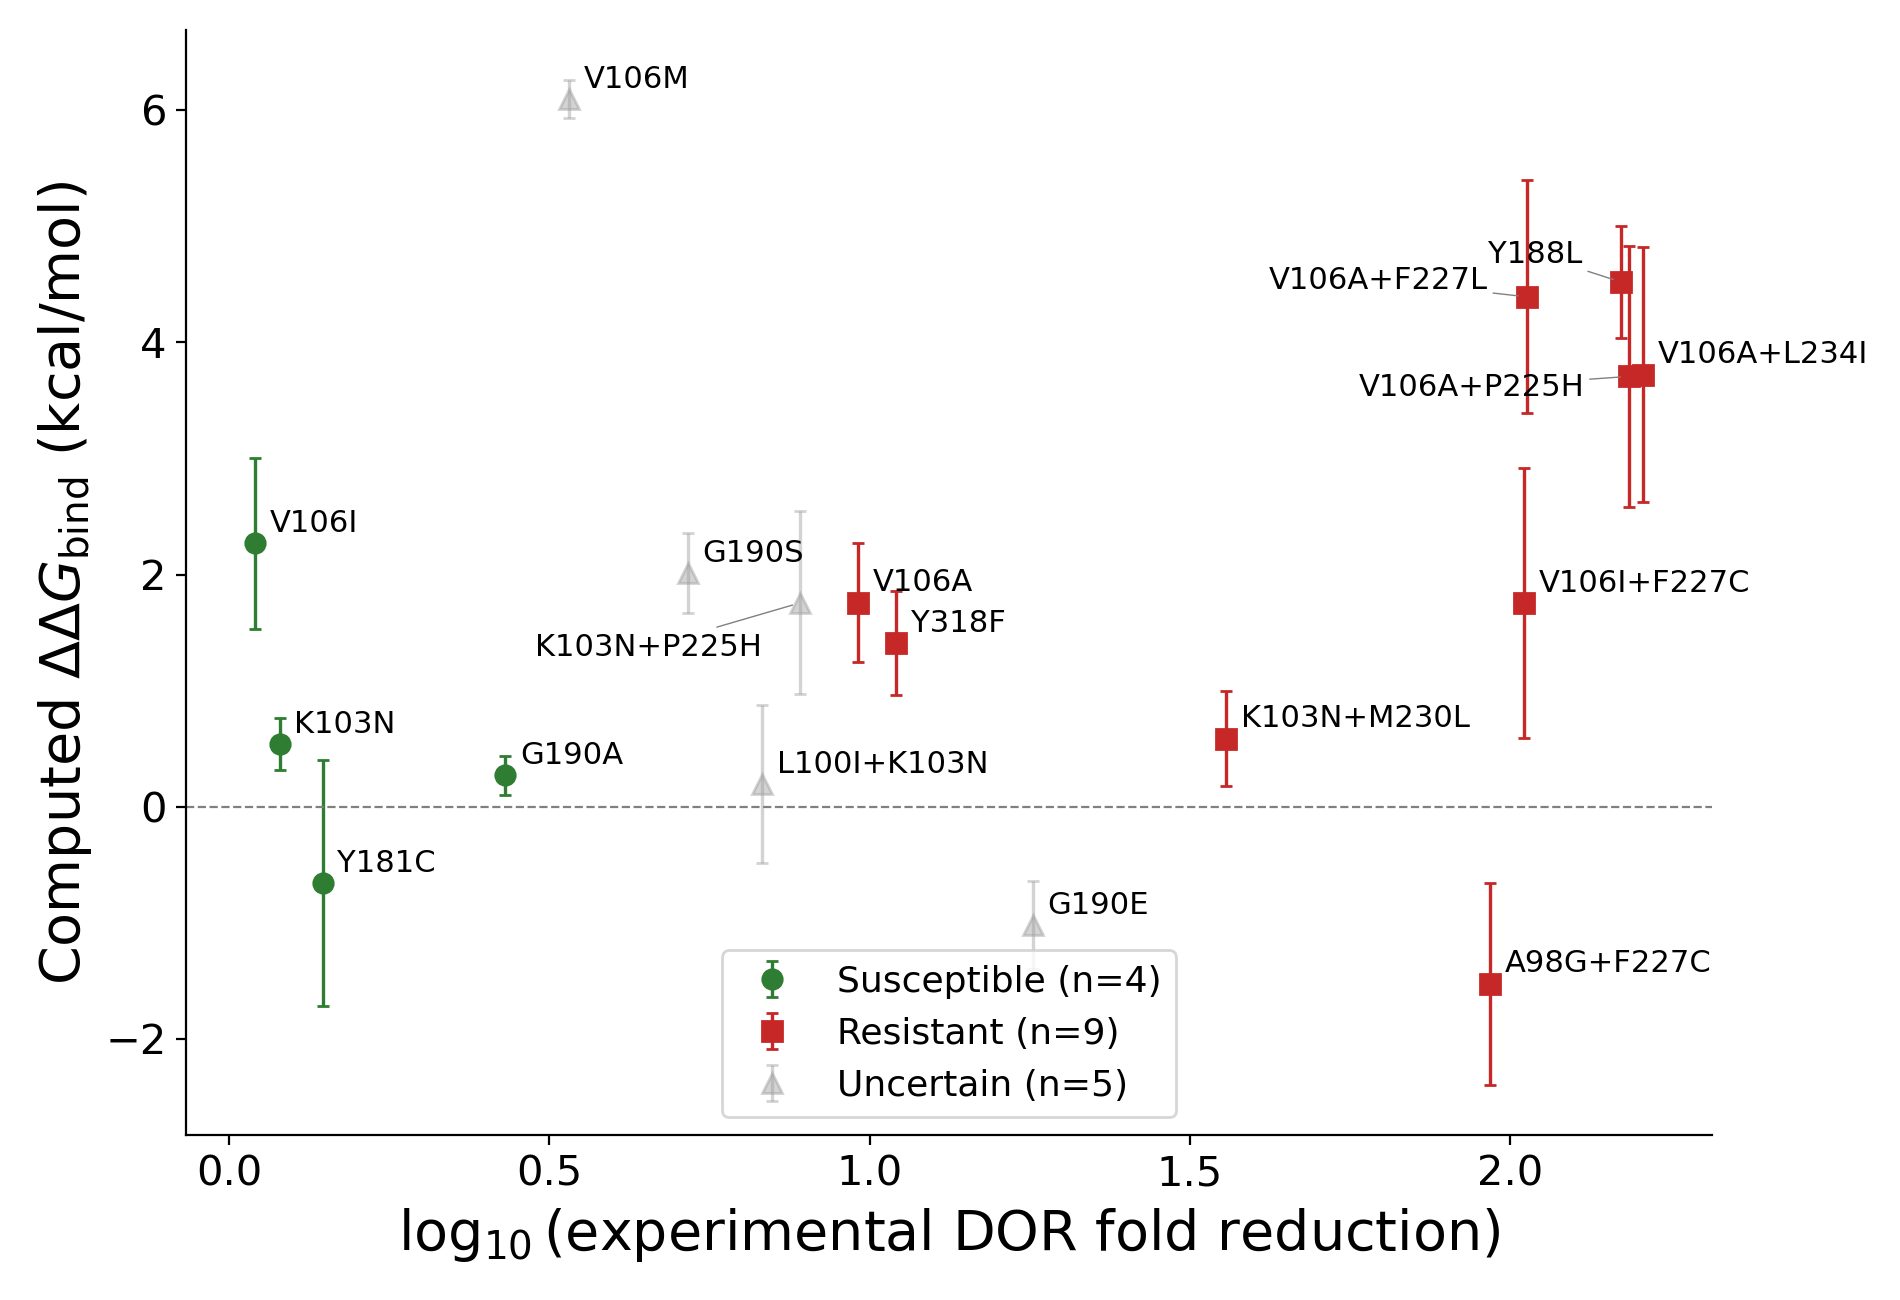
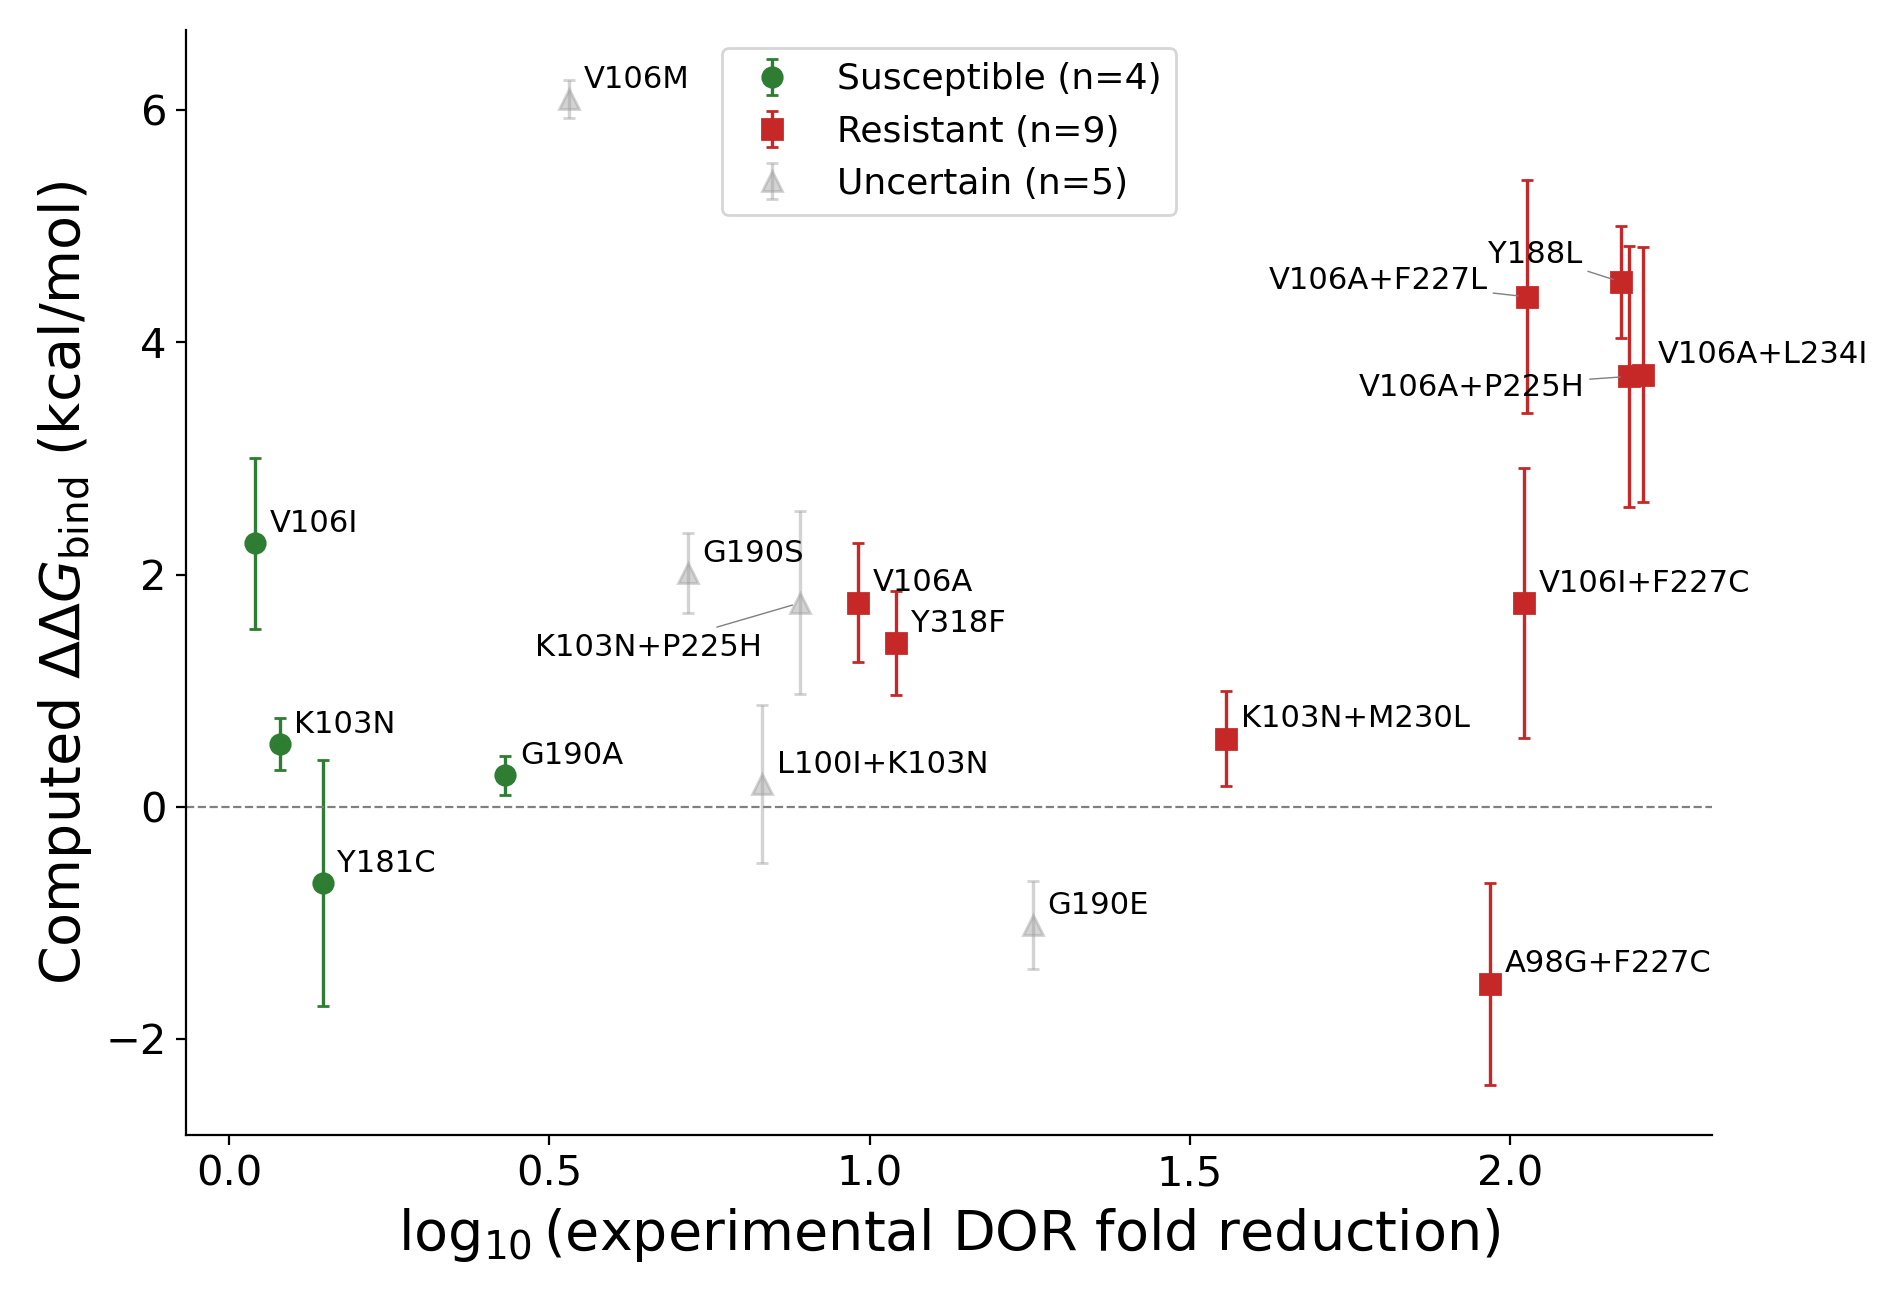
Add manuscript/ARTIFACTS.md: what produces every figure and table
Today the wrong file was identified as the source of Figure 2D.
panel_ddg_vs_experiment.png (a monochrome QC diagnostic from combine_neq) and
panel_ddg_vs_experiment_by_category.png (the manuscript panel, with the
phenotype colour coding) differ by one suffix, sit in the same directory, and
nothing marked which was which.

ARTIFACTS.md maps every numbered figure and table in the draft to its
generating script, its canonical output path, and -- for composite figures --
the Figures.pptx slide and image name, so a panel can be replaced without
guessing. It also records the traps: the two ddg_vs_experiment files, the
--targets truncation, that Supplementary Figure 3 is what the scripts still
call Figure 3, and which results/ directories are exploratory.

Also moves the Figure 2D legend to upper centre.

Changed region(s): [[0.3726, 0.0308, 0.6211, 0.1538], [0.3726, 0.7385, 0.6211, 0.8615]]

diff --git a/src/analysis/cli/plot_panel_by_resistance_category.py b/src/analysis/cli/plot_panel_by_resistance_category.py
@@ -221,7 +221,7 @@ def main(argv: list[str] | None = None) -> int:
         ax.spines[side].set_visible(False)
     # Lower centre: upper left collided with V106M (the highest point), and the
     # mid/low-ddG band is the emptiest region of the panel.
-    ax.legend(loc="lower center", fontsize=LEGEND_FONTSIZE, frameon=True)
+    ax.legend(loc="upper center", fontsize=LEGEND_FONTSIZE, frameon=True)
     fig.tight_layout()
     fig.savefig(args.out_png, dpi=200)
     print(f"\nWrote {args.out_png}\nWrote {args.out_csv}")

diff --git a/manuscript/ARTIFACTS.md b/manuscript/ARTIFACTS.md
@@ -1,0 +1,79 @@
+# Manuscript artifacts — what produces every numbered figure and table
+
+**This file is the authority.** If a number, panel or table appears in the
+paper, its provenance is here. Nothing else in `results/` is a manuscript
+artifact, however similar the filename looks.
+
+Why it exists: on 2026-09-01 the wrong file was identified as the source of
+Figure 2D. Two plots differ by one suffix —
+`panel_ddg_vs_experiment.png` (a monochrome QC diagnostic from `combine_neq.py`)
+and `panel_ddg_vs_experiment_by_category.png` (the manuscript panel, with the
+Susceptible/Resistant/Uncertain colour coding) — and both sit in the same
+directory with nothing marking which is which.
+
+Draft of record: `manuscript/post-feedback-from-atanu/DorDRM-MD-09-02-26.docx`.
+Composite figures are assembled in `manuscript/Figures.pptx`; the slide and
+image name are given so a panel can be replaced without guessing.
+
+---
+
+## Figures
+
+| # | panel | what | generated by | canonical output | assembled in |
+|---|---|---|---|---|---|
+| **1** | A | Crystal structure of RT–DOR (PDB 4NCG) | external (molecular graphics; not scripted) | — | `Figures.pptx` slide 1, `image1.png` |
+| **1** | B | DOR moieties and its three key NNIBP interactions | `src/analysis/cli/plot_dor_schematic.py` | `results/plots/figure1B_dor_schematic.pdf` | not yet placed |
+| **2** | A | Thermodynamic cycle | `scripts/fep_pmx/plot_protocol_schematic.py` | `results/analysis/fep_pmx/protocol_schematic/01_thermodynamic_cycle.png` | slide 8, `image20.png` |
+| **2** | B | Hybrid residue topology (V106A) | `scripts/fep_pmx/plot_protocol_schematic.py` | `results/analysis/fep_pmx/protocol_schematic/02_hybrid_topology.png` | slide 8, `image21.png` |
+| **2** | C | Forward/reverse work histograms | `scripts/fep_pmx/plot_protocol_schematic.py` | `results/analysis/fep_pmx/protocol_schematic/03_work_distributions.png` | slide 8, `image23.png` |
+| **2** | **D** | **∆∆G_bind vs DOR fold-reduction, by phenotype** | **`src/analysis/cli/plot_panel_by_resistance_category.py`** | **`results/analysis/fep_pmx/panel_ddg_vs_experiment_by_category.png`** | **slide 8, `image22.png`** |
+| **S1** | — | DOR pose RMSD and DOR–RT COM distance convergence | `compute_md_convergence.py` → `plot_convergence_panel.py` | `results/analysis/md_convergence/plots/` (`dor_rmsd_convergence.png`, `com_distance_convergence.png`) | slide 6 or 7 |
+| **S2** | — | FEP work distributions / dissipation across legs | `src/analysis/cli/plot_fep_work_distributions.py` | `results/analysis/fep_pmx/work_distributions_all_legs.png` | slide 6 or 7 |
+| **S3** | A | Chlorocyanophenyl ring burial, WT vs Y188L | `compute_mechanism_coordinates.py` → `plot_mechanism_panel.py` | `results/analysis/mechanisms/plots/mechanism_panel.png` (panel A) | — |
+| **S3** | B | DOR displacement toward Ser105, V106A genotypes | same | same (panel B) | — |
+
+## Tables
+
+| # | what | generated by | canonical output |
+|---|---|---|---|
+| **1** | Median fold-change in DOR susceptibility | `src/analysis/cli/plot_dor_susceptibility_bars.py` | `results/analysis/dor_susceptibility_bar_chart/tables/dor_susceptibility_values.csv` |
+| **2** | MM/GBSA ∆∆E components + FEP ∆∆G_bind | `src/analysis/cli/build_table_2.py` | `manuscript/Table-2-energetics.csv` |
+| **S1** | Isolate-level HIVDB susceptibility data | external (Stanford HIVDB export) | `manuscript/post-feedback-from-atanu/Supplementary-Table-1.xlsx` |
+| **S2** | RT variant sequences simulated | external | `manuscript/post-feedback-from-atanu/Supplementary-Table-2.xlsx` |
+| **S3** | Per-replicate MM/GBSA and FEP values | `src/analysis/cli/build_supplementary_table_3.py` | `manuscript/Supplementary-Table-3.xlsx` |
+
+## Upstream data these depend on
+
+| input | produced by |
+|---|---|
+| `results/analysis/fep_pmx/panel_ddg.csv` | `scripts/fep_pmx/combine_neq.py` (run on Sherlock) |
+| `results/analysis/binding_energy/tables/ddg_full.csv` | `compute_mmgbsa_safe.py` → `rebuild_binding_energy_sources.py` |
+| `results/analysis/mechanisms/mechanism_coordinates.csv` | `compute_mechanism_coordinates.py` |
+| `manifests/md_manifest.csv` | `src/structure_prep/preparation.py` |
+| fold-change ground truth | `data/DRM-susceptibilities.csv.xlsx` — **never hardcode these** |
+
+## Statistics reported in the text
+
+| quantity | computed by |
+|---|---|
+| classification performance (MCC, ROC AUC, Fisher) | `src/analysis/cli/classification_performance.py` |
+| ∆∆G vs ∆∆E and vs log₁₀(fold) correlations | `scripts/fep_pmx/combine_neq.py` (panel-wide) and the block in `manuscript/CHANGES_2026-09-01_g190e_resolved.md` |
+| per-category subset fits | `plot_panel_by_resistance_category.py` → `panel_category_subset_stats.csv` |
+
+---
+
+## Known traps
+
+- **`panel_ddg_vs_experiment.png` is NOT Figure 2D.** It is a QC diagnostic.
+  The manuscript panel is the `_by_category` file.
+- **`combine_neq.py --targets X` truncates `panel_ddg.csv`** to those targets.
+  Always re-run with the full genotype list afterwards.
+- **Supplementary Figure 3 is the mechanism panel.** Earlier drafts numbered it
+  Figure 3, and the scripts and older change-notes still say "Figure 3".
+- **Contact counts are atom PAIRS, not atoms**, and the cutoff is **4.0 Å** as of
+  2026-08-31. See `manuscript/contact-cutoff-sensitivity.md`.
+- Anything under `results/analysis/` not named above — `fep_jorgensen`,
+  `boltz`, `new_logistic_regression`, `triplet_story_analyses`,
+  `modern_md_suite`, `custom_mechanism_*`, `openmm_sidechain_deletion_*`,
+  `occupancy_stats`, `ligand_pocket_features`, `tunnel`, `dccm` — is
+  exploratory and appears nowhere in the paper.
